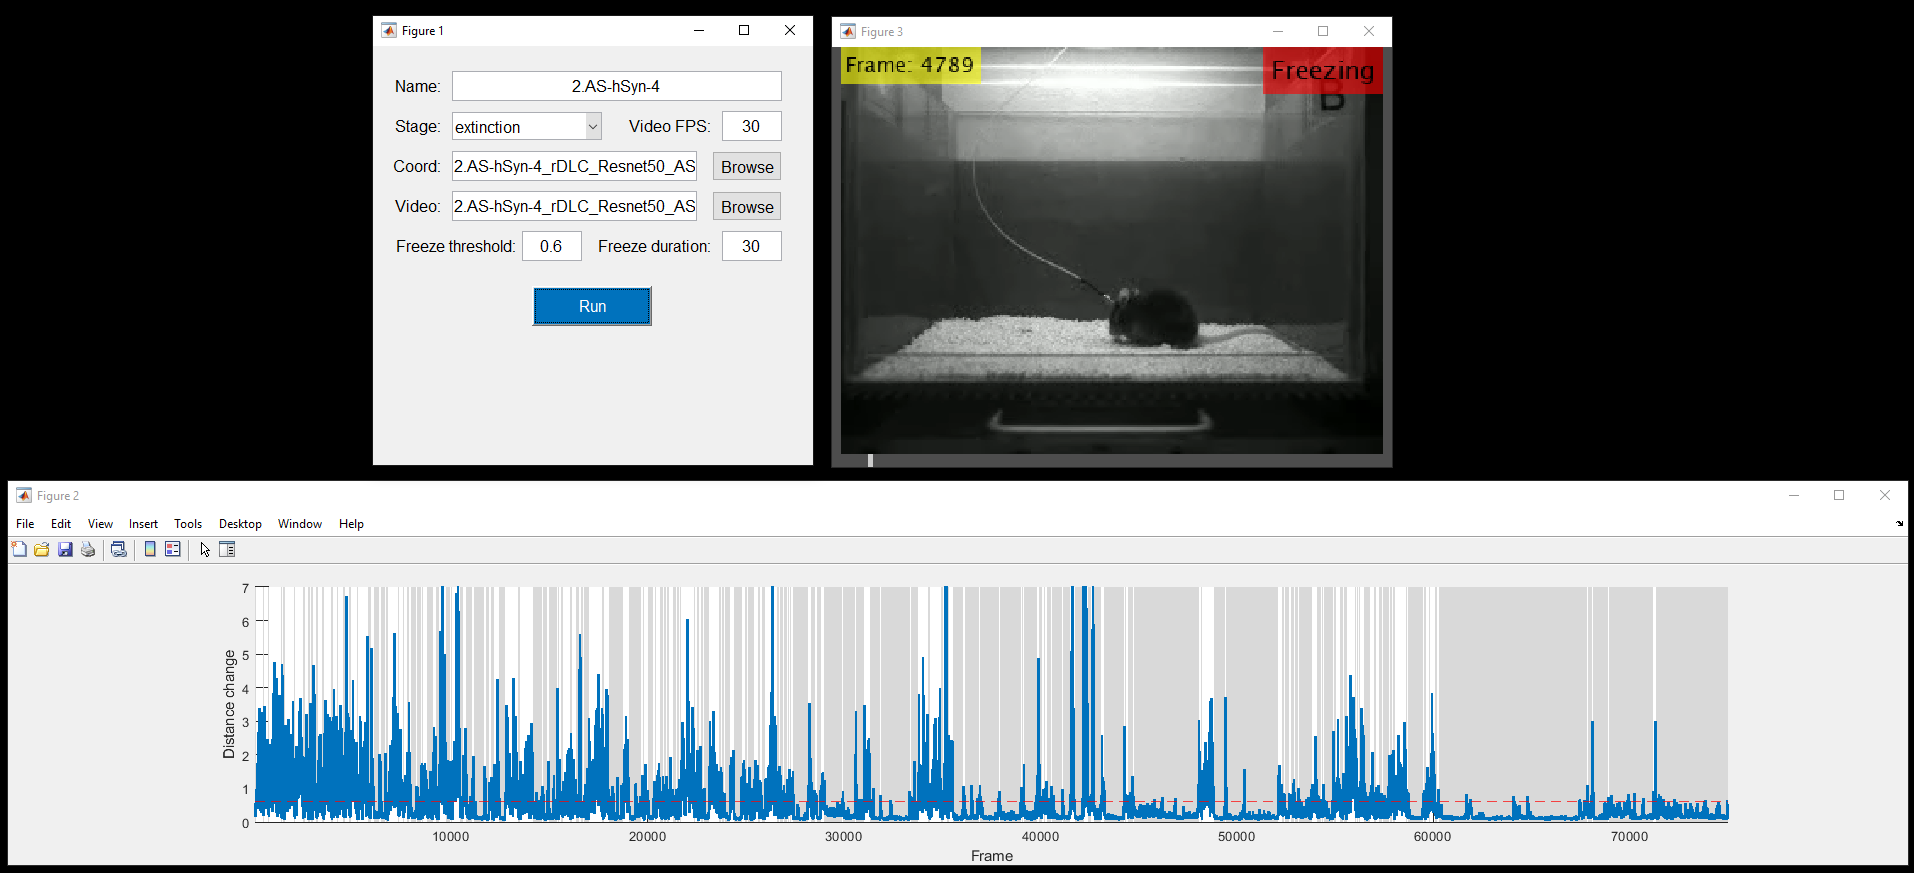
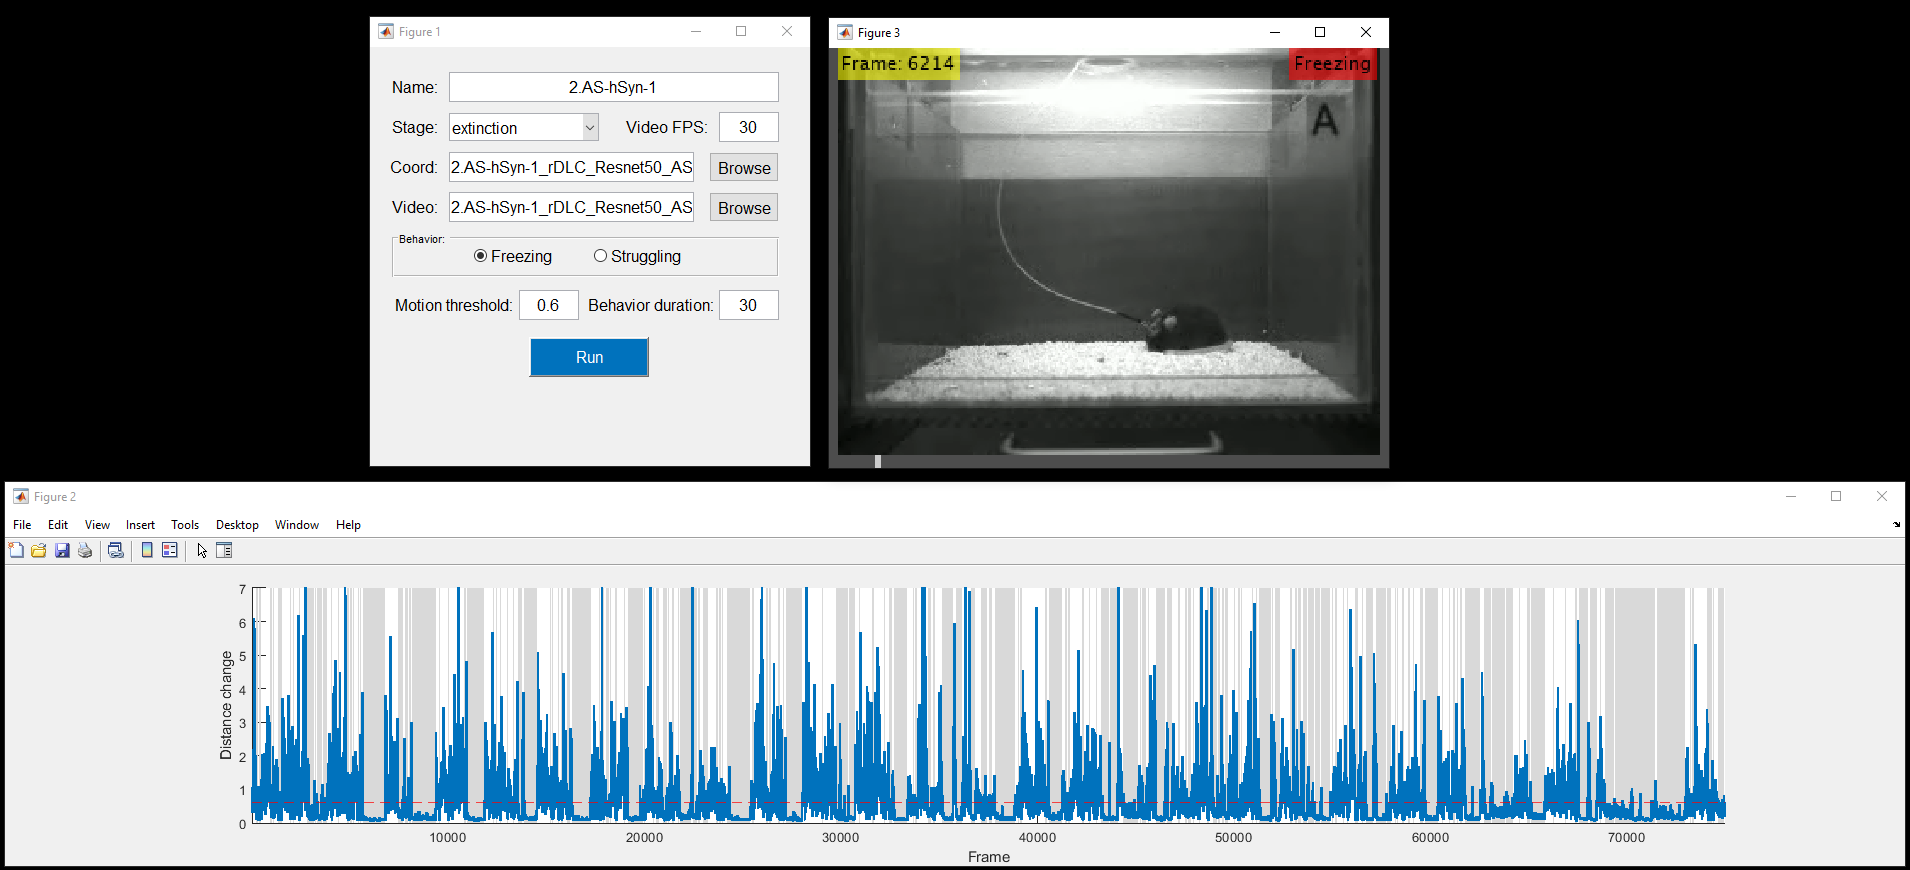
Update README with option to analyze struggling behavior

diff --git a/README.md b/README.md
@@ -1,10 +1,10 @@
 # DLC-freezing
 
-This repository contains MATLAB scripts to measure freezing behavior based on pose coordinates from [DeepLabCut](https://github.com/DeepLabCut/DeepLabCut).
+This repository contains MATLAB scripts to measure freezing or struggling behavior based on pose coordinates from [DeepLabCut](https://github.com/DeepLabCut/DeepLabCut).
 
 - **CheckThresholds**
 
-  This script is designed for a contextual fear conditioning paradigm, allowing the user to enter video and coordinate information and set freezing thresholds in a GUI. Users can interactively view the video frame-by-frame with freezing labels, as well as a plot of coordinate distance change by frame, to determine optimal thresholds.
+  This script allows the user to enter video and coordinate information and set thresholds in a GUI. Users can interactively view the video frame-by-frame with behavior labels and plot coordinate distance change by frame to determine optimal thresholds.
 
   ![Screenshot](https://github.com/bhagwaths/DLC-freezing/blob/master/CheckThresholds/CheckThresholds_example.PNG)
 
